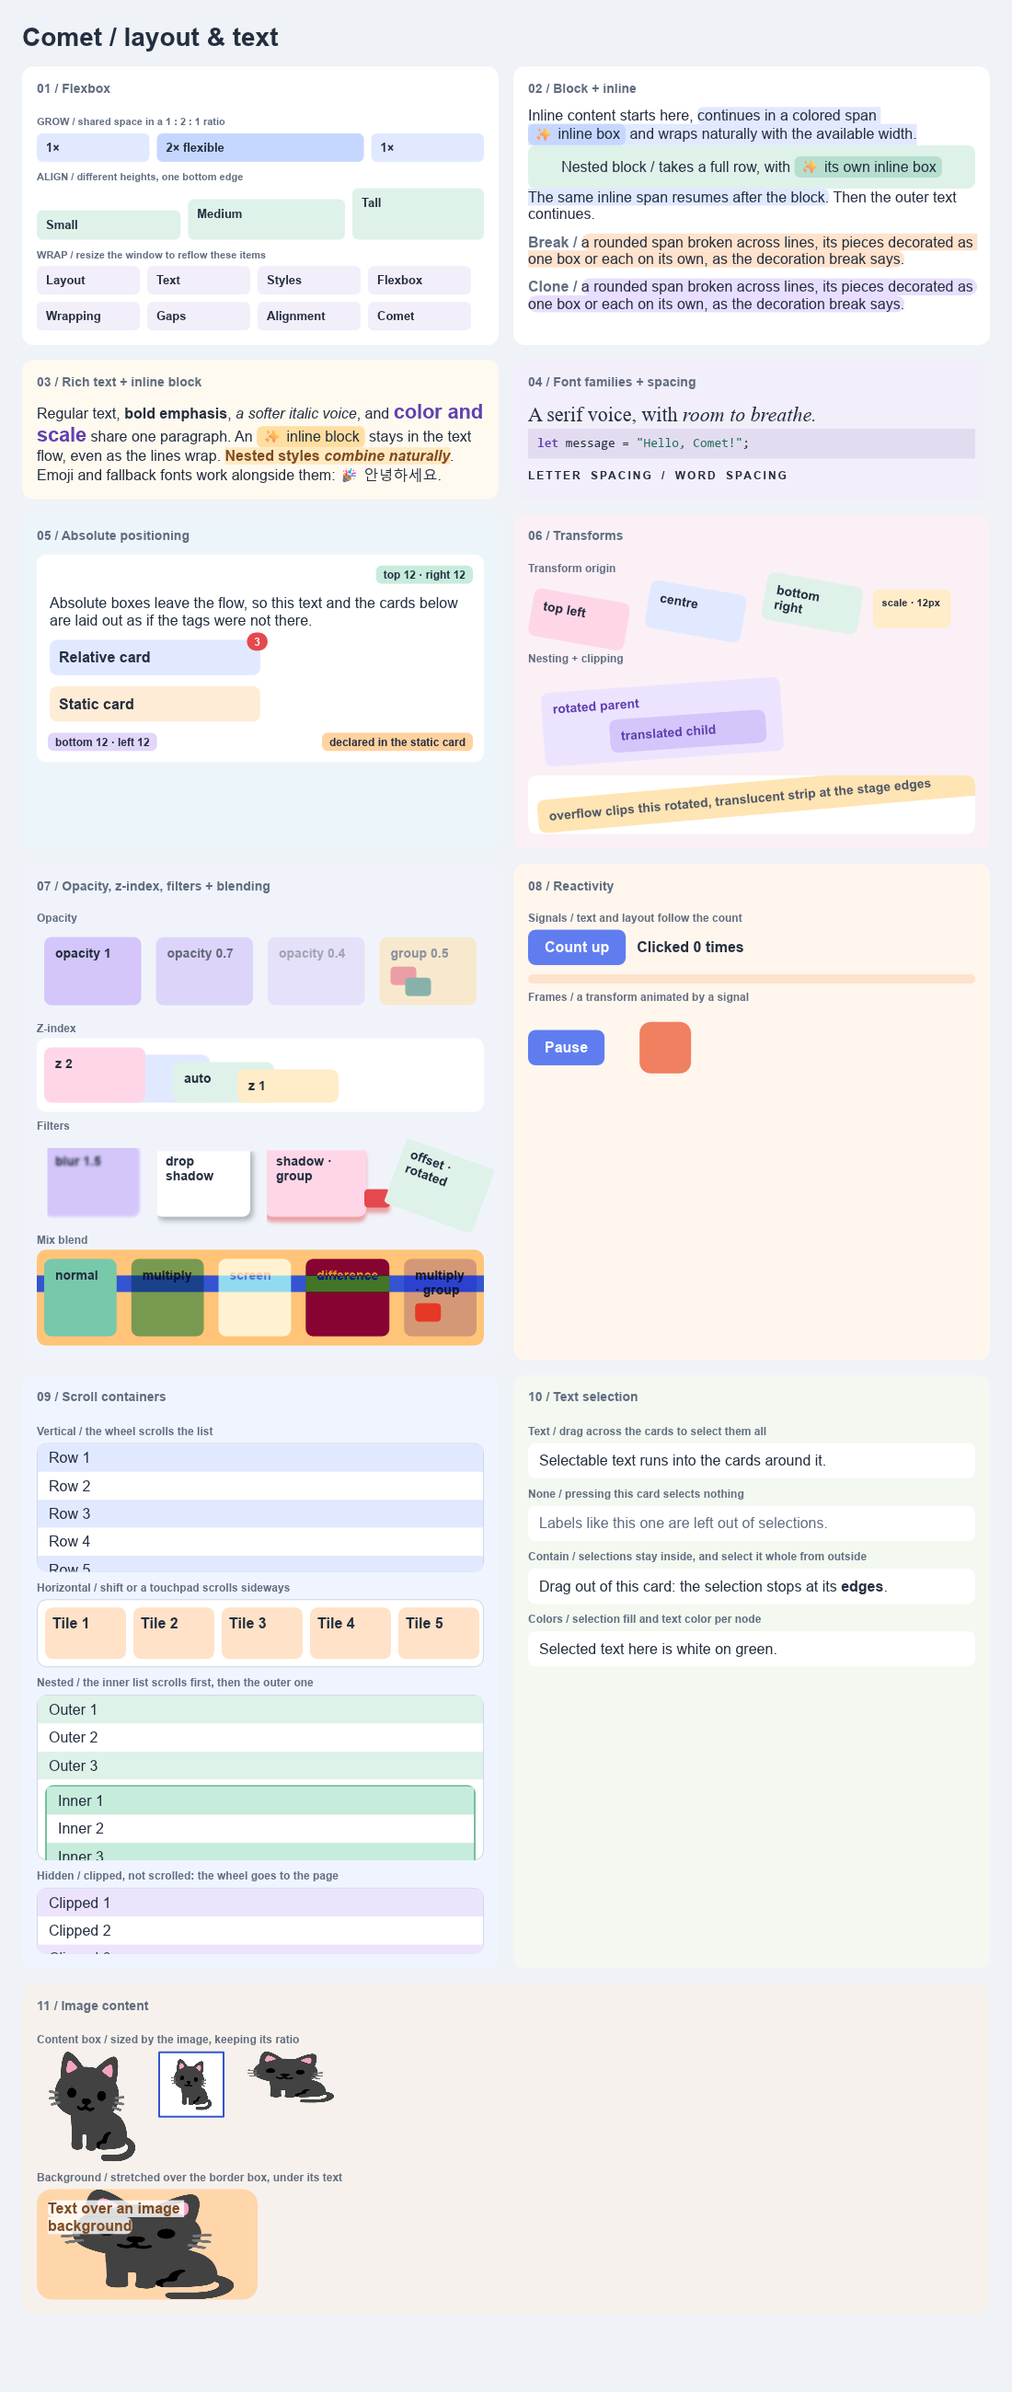
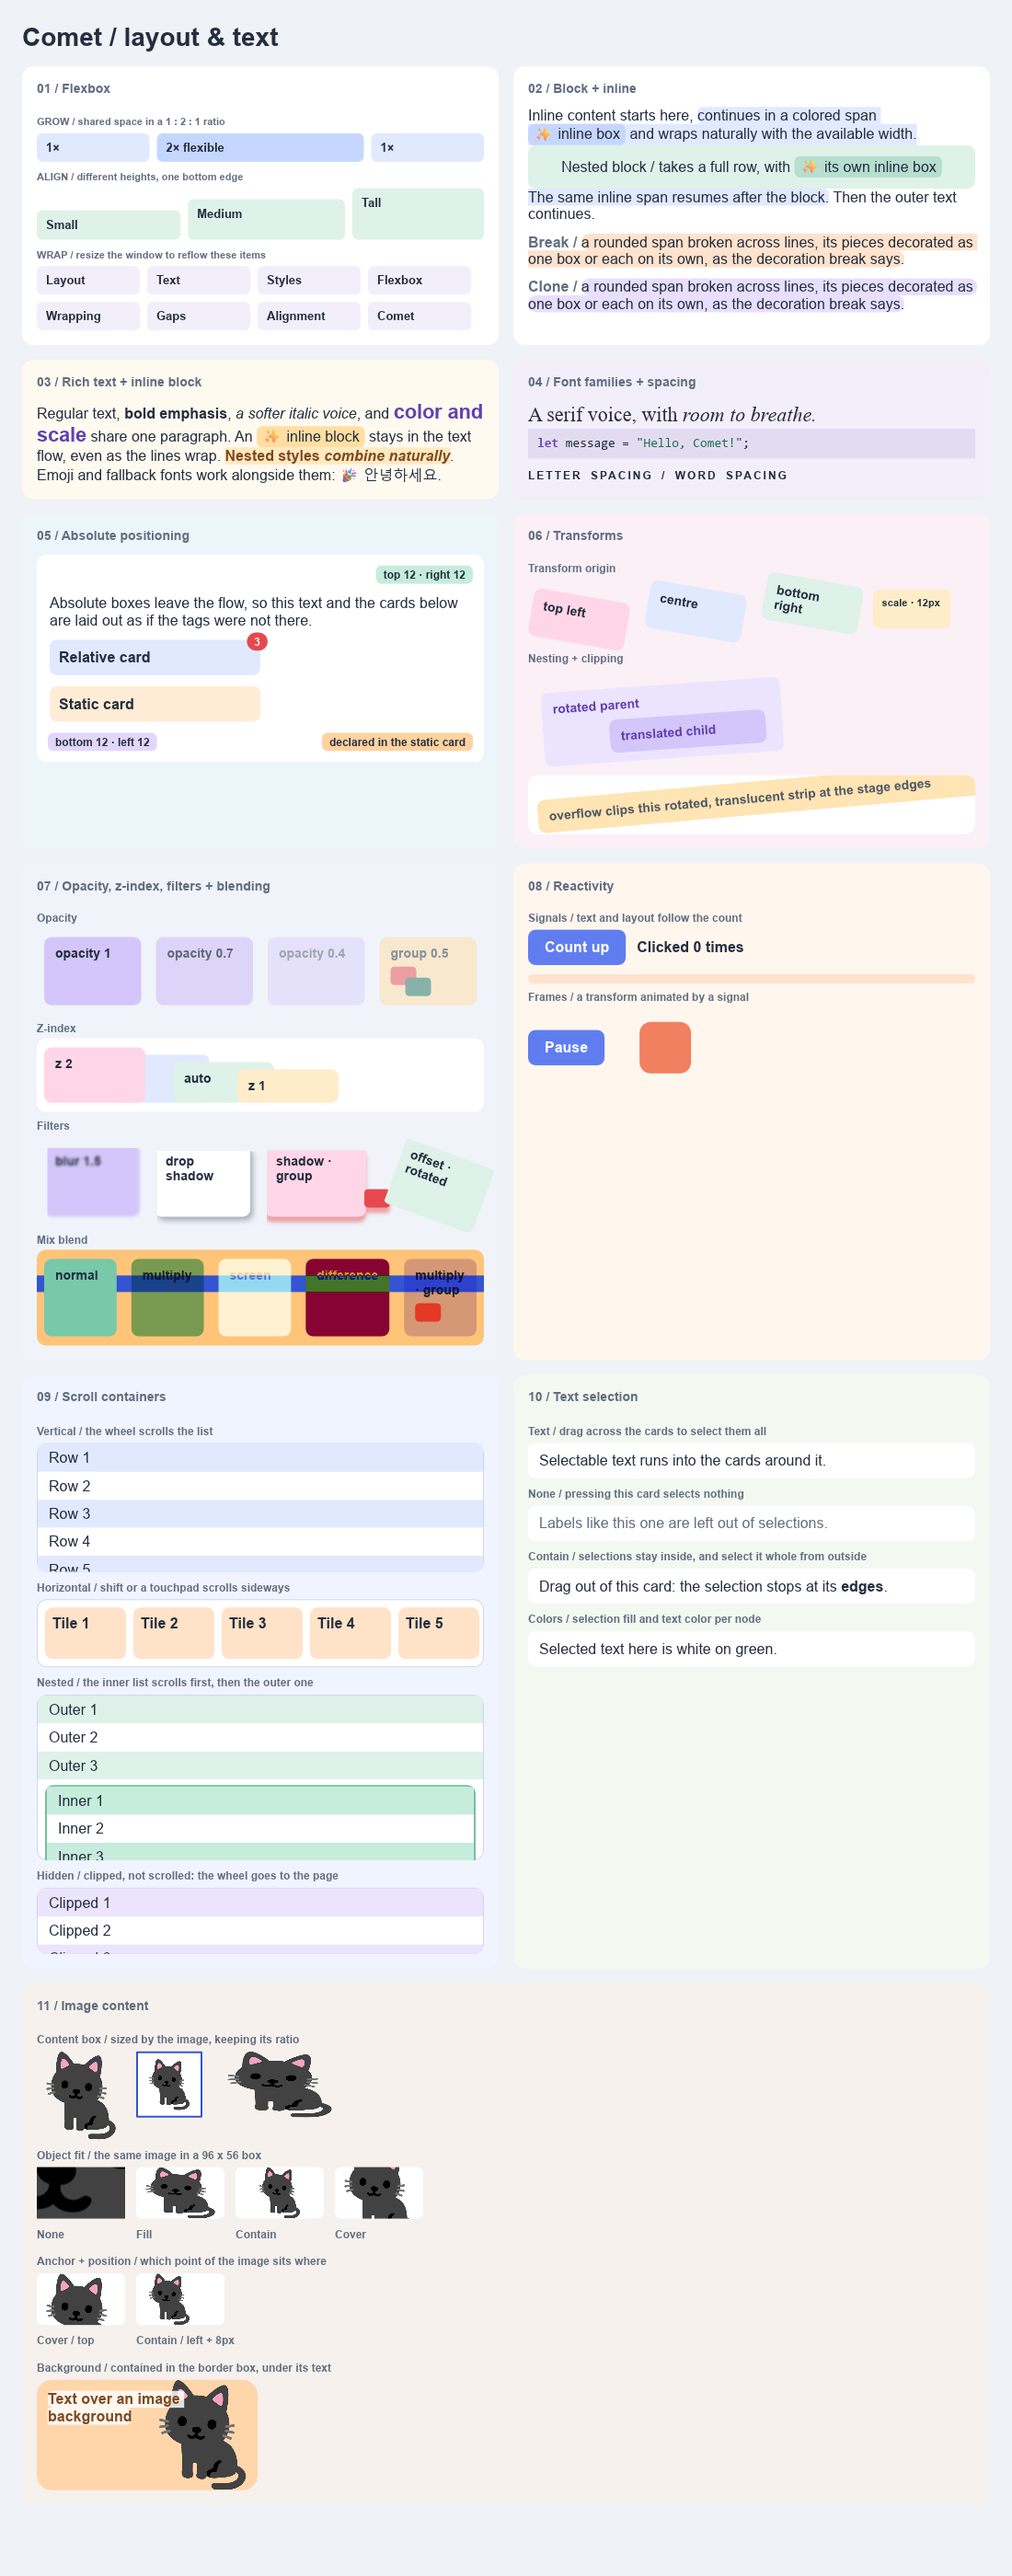
feat(example): update example

diff --git a/crates/comet/examples/common/image.rs b/crates/comet/examples/common/image.rs
@@ -1,13 +1,13 @@
 use comet::prelude::*;
-use comet_content::ContentId;
+use comet_content::{ContentId, style::ObjectFit};
 use comet_content_image::ImageContent;
-use comet_geometry::AutoValue;
+use comet_geometry::{AutoValue, Size};
 use comet_layout::style::bx::{DisplayInner, DisplayOuter};
 use comet_paint::style::Paint;
 use comet_reactivity::cx::NodeBuild;
 use comet_tree::node::NodeKey;
 use peniko::{Blob, Color, ImageAlphaType, ImageData, ImageFormat};
-use taffy::AlignItems;
+use taffy::{AlignItems, FlexWrap};
 
 use super::{MUTED, panel, solid};
 
@@ -29,29 +29,68 @@ pub(super) fn showcase(cx: &UiCx) -> NodeKey {
         |cx| {
             [
                 caption(cx, "Content box / sized by the image, keeping its ratio"),
-                cx.div()
-                    .flex()
-                    .align_items(AlignItems::START)
-                    .gap(size(px(12), px(12)))
-                    .children(|cx| {
-                        [
-                            // A width alone keeps the image square.
-                            image(cx, cat).size(size(px(120), auto())).build(),
-                            // Padding and border wrap around the image.
-                            image(cx, cat)
-                                .size(size(px(72), auto()))
-                                .padding(all(px(6)))
-                                .border(all(px(2)))
-                                .border_fill(solid(Color::from_rgb8(52, 84, 209)))
-                                .background(solid(Color::WHITE))
-                                .build(),
-                            // Both sizes stretch it.
-                            image(cx, cat).size(size(px(120), px(56))).build(),
-                        ]
-                    }),
+                row(cx, |cx| {
+                    [
+                        // A width alone keeps the image square.
+                        image(cx, cat)
+                            .object_fit(ObjectFit::Fill)
+                            .size(size(px(96), auto()))
+                            .build(),
+                        // Padding and border wrap around the image.
+                        image(cx, cat)
+                            .object_fit(ObjectFit::Fill)
+                            .size(size(px(72), auto()))
+                            .padding(all(px(6)))
+                            .border(all(px(2)))
+                            .border_fill(solid(Color::from_rgb8(52, 84, 209)))
+                            .background(solid(Color::WHITE))
+                            .build(),
+                        // A custom ratio sizes the box and stretches the image.
+                        image(cx, cat)
+                            .object_fit(ObjectFit::Fill)
+                            .content_aspect_ratio(AutoValue::Value(Size::new(2.0, 1.0)))
+                            .size(size(px(144), auto()))
+                            .build(),
+                    ]
+                }),
+                caption(cx, "Object fit / the same image in a 96 x 56 box"),
+                row(cx, |cx| {
+                    [
+                        fit(cx, cat, ObjectFit::None, "None"),
+                        fit(cx, cat, ObjectFit::Fill, "Fill"),
+                        fit(cx, cat, ObjectFit::Contain, "Contain"),
+                        fit(cx, cat, ObjectFit::Cover, "Cover"),
+                    ]
+                }),
                 caption(
                     cx,
-                    "Background / stretched over the border box, under its text",
+                    "Anchor + position / which point of the image sits where",
+                ),
+                row(cx, |cx| {
+                    [
+                        // The top of the covering image at the top of the box.
+                        tile(
+                            cx,
+                            image(cx, cat)
+                                .object_fit(ObjectFit::Cover)
+                                .object_anchor(point(percent(50), px(0)))
+                                .object_position(point(percent(50), px(0))),
+                            "Cover / top",
+                        ),
+                        // The left of the contained image 8px into the box.
+                        tile(
+                            cx,
+                            image(cx, cat)
+                                .object_fit(ObjectFit::Contain)
+                                .object_anchor(point(px(0), percent(50)))
+                                .object_position(point(px(8), percent(50))),
+                            "Contain / left + 8px",
+                        ),
+                    ]
+                }),
+                caption(
+                    cx,
+                    "Background / contained in the border box, under its text",
                 ),
                 cx.div()
                     .background(solid(Color::from_rgb8(255, 214, 170)))
@@ -60,6 +99,9 @@ pub(super) fn showcase(cx: &UiCx) -> NodeKey {
                     .children(|cx| {
                         cx.div()
                             .background(Paint::Content(cat))
+                            .object_fit(ObjectFit::Contain)
+                            .object_anchor(point(percent(100), percent(50)))
+                            .object_position(point(percent(100), percent(50)))
                             .size(size(percent(100), percent(100)))
                             .padding(all(px(12)))
                             .color(AutoValue::Value(solid(Color::from_rgb8(127, 74, 32))))
@@ -76,6 +118,32 @@ pub(super) fn showcase(cx: &UiCx) -> NodeKey {
             ]
         },
     )
+}
+
+/// A row of boxes aligned to its top, so they keep their own heights.
+fn row<V: IntoView>(cx: &UiCx, children: impl FnOnce(&UiCx) -> V) -> NodeKey {
+    cx.div()
+        .flex()
+        .flex_wrap(FlexWrap::Wrap)
+        .align_items(AlignItems::START)
+        .gap(size(px(12), px(12)))
+        .children(children)
+}
+
+/// `content` in a 96 x 56 box fitting it as `object_fit` says, labelled.
+fn fit(cx: &UiCx, content: ContentId, object_fit: ObjectFit, label: &str) -> NodeKey {
+    tile(cx, image(cx, content).object_fit(object_fit), label)
+}
+
+/// `image` in a white box, 96 x 56 unless it sets a size, over `label`.
+fn tile(cx: &UiCx, image: NodeBuild<'_>, label: &str) -> NodeKey {
+    let image = image
+        .size(size(px(96), px(56)))
+        .background(solid(Color::WHITE))
+        .border_radius(all(px(6)))
+        .build();
+
+    cx.div().children(|cx| [image, caption(cx, label)])
 }
 
 /// A box displaying `content`.

diff --git a/crates/comet/examples/image_render.rs b/crates/comet/examples/image_render.rs
@@ -12,7 +12,7 @@ use image::{ExtendedColorType, ImageEncoder, codecs::png::PngEncoder};
 use kurbo::Affine;
 
 const WIDTH: u32 = 1100;
-const HEIGHT: u32 = 2600;
+const HEIGHT: u32 = 2800;
 /// Physical pixels per logical unit of the rendered image.
 const SCALE_FACTOR: f64 = 1.0;
 
